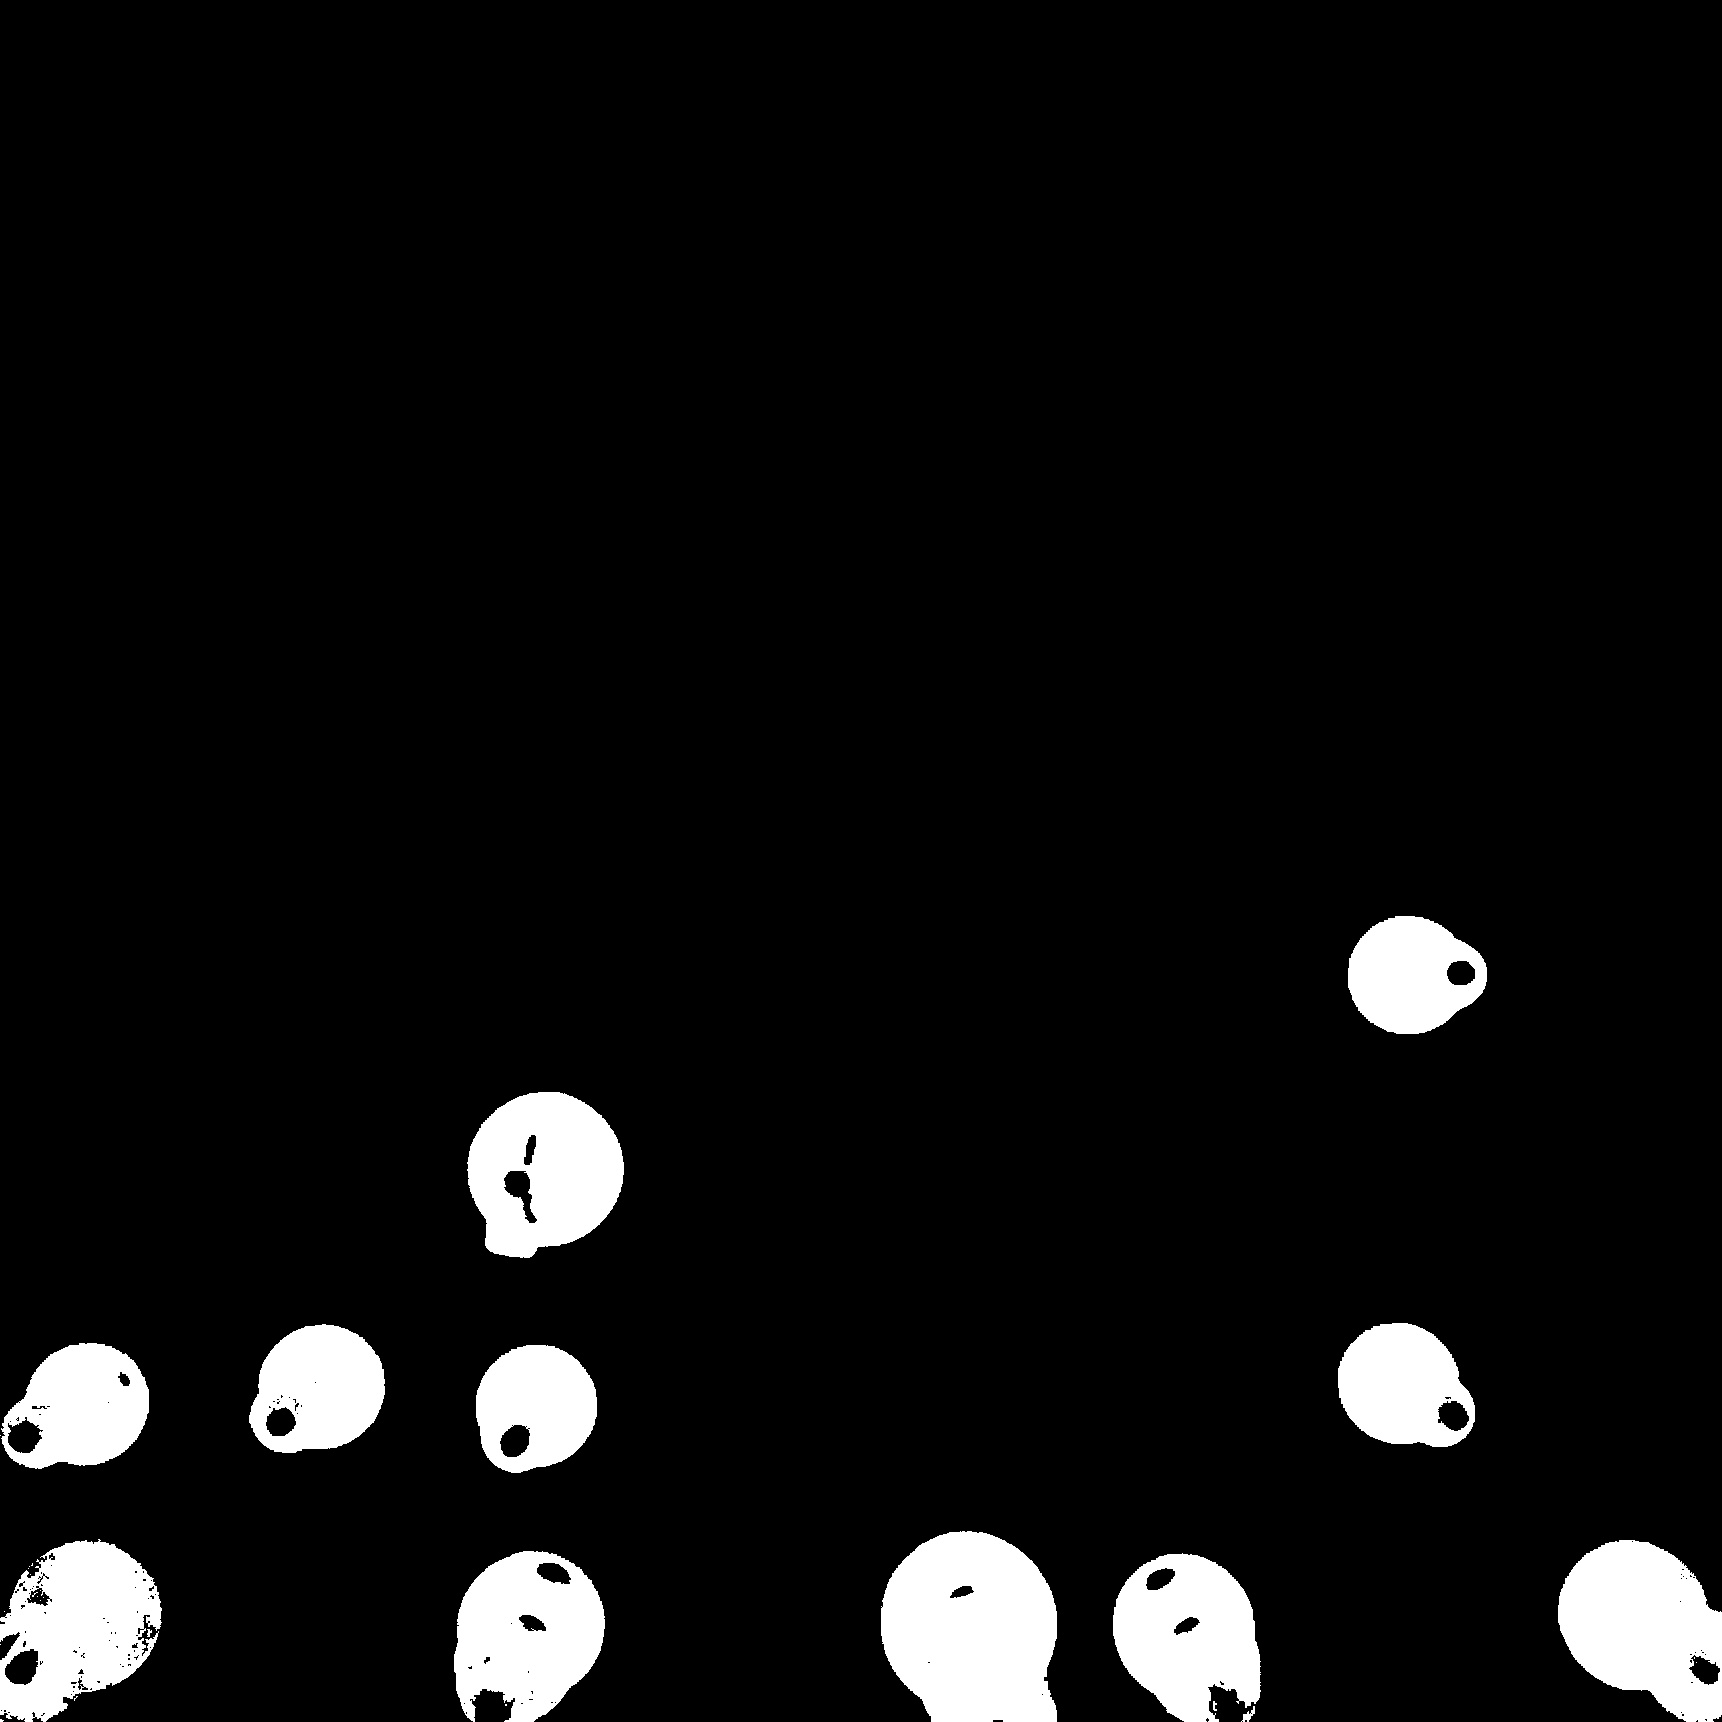
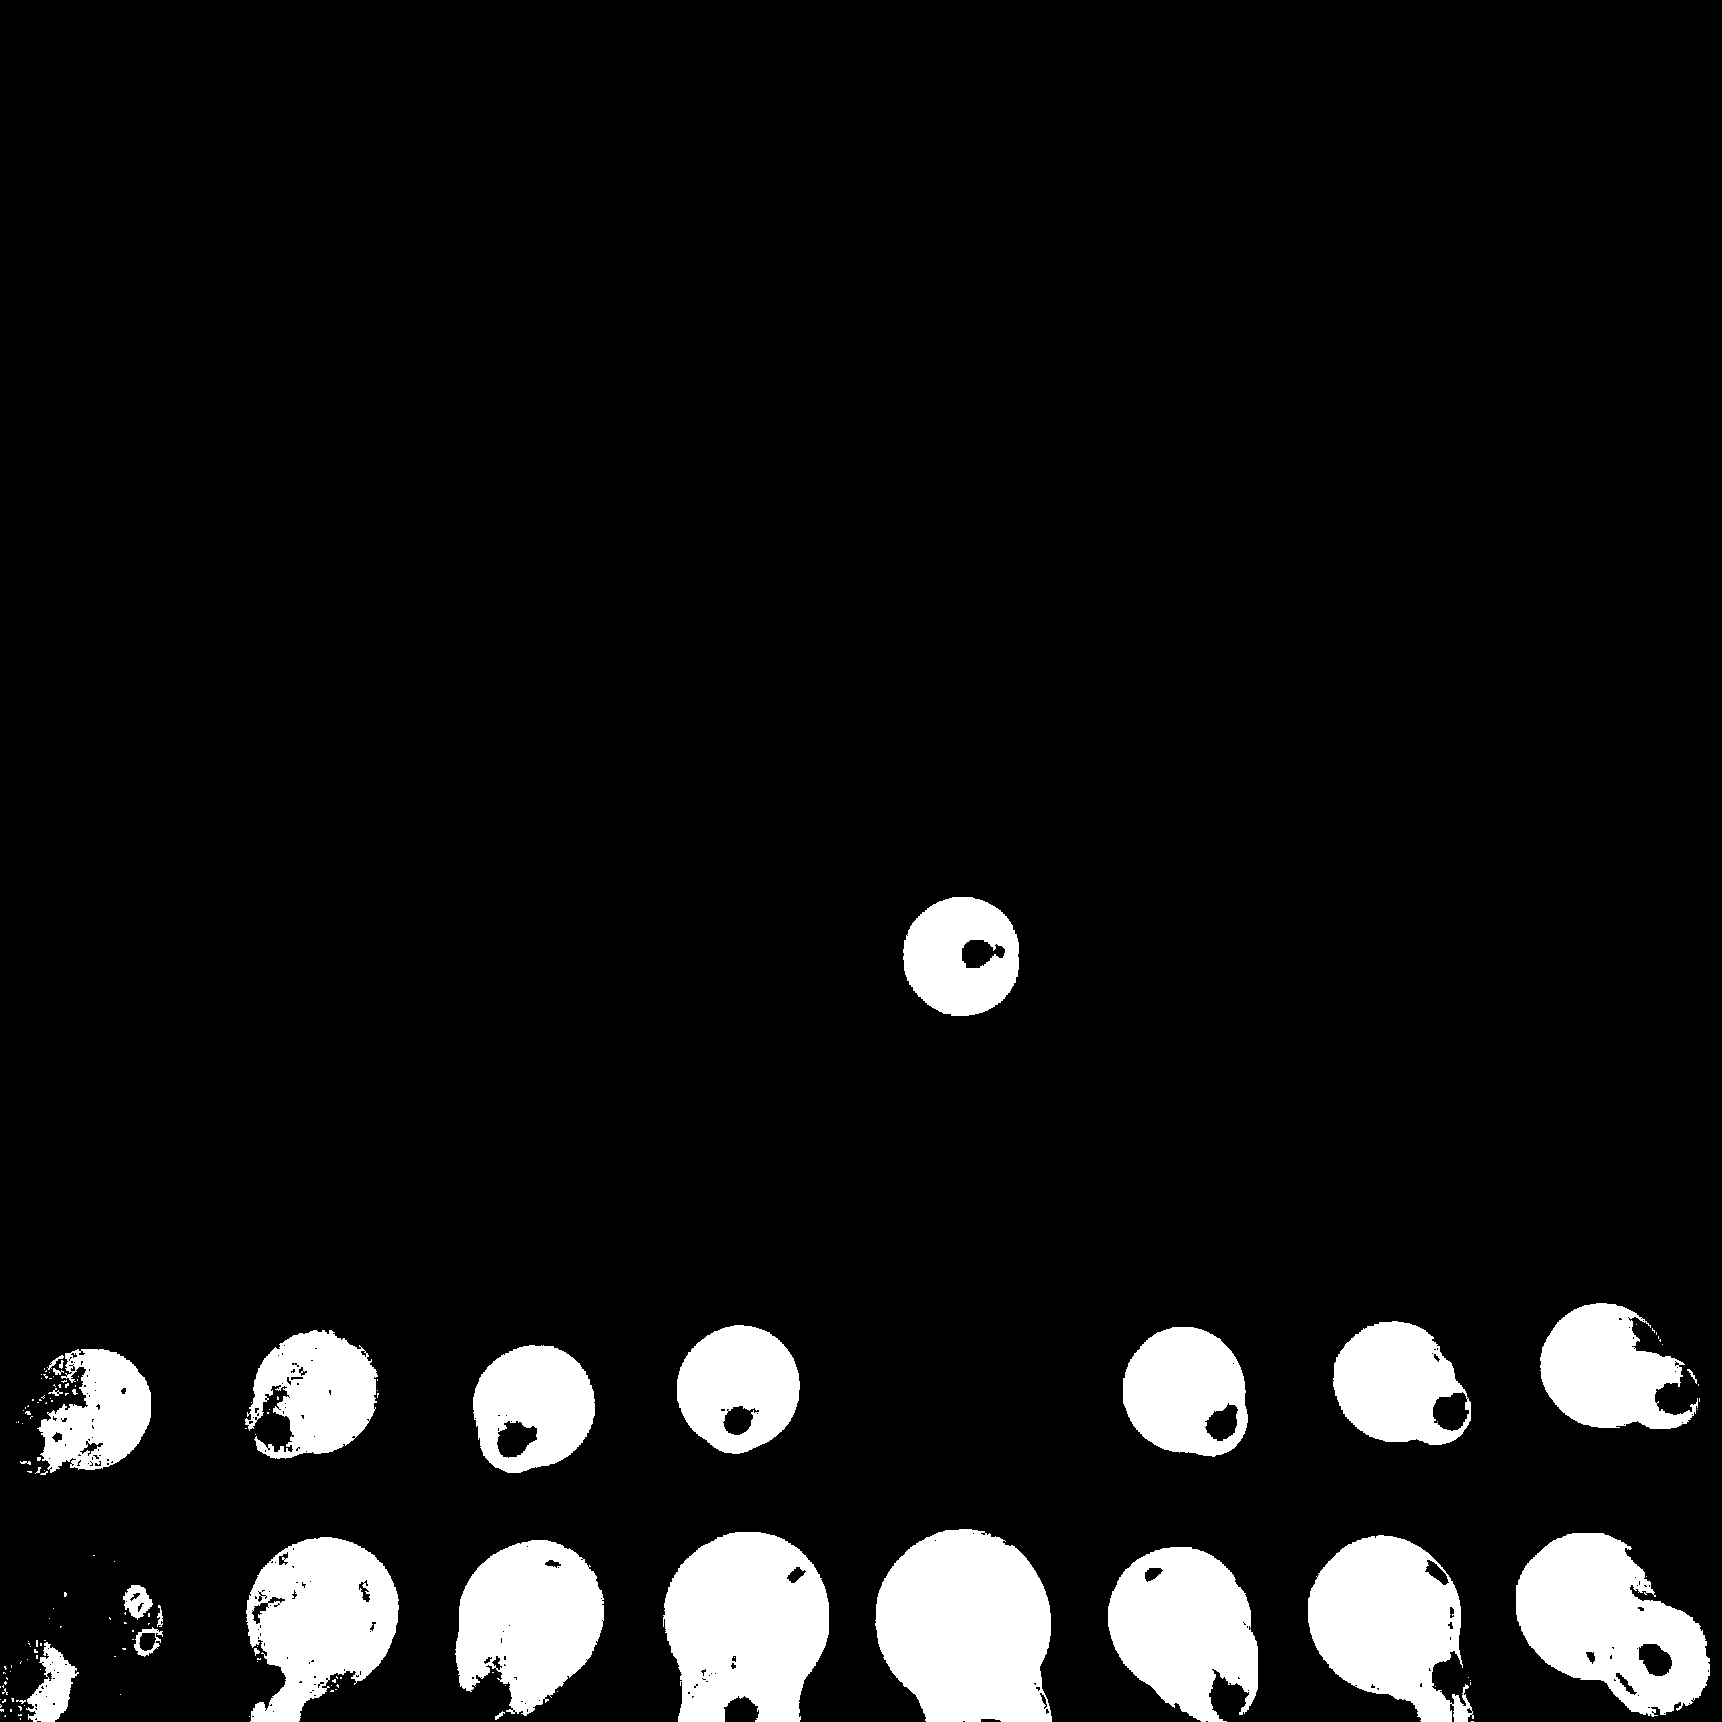
game logic

diff --git a/rpi/core.py b/rpi/core.py
@@ -64,10 +64,11 @@ def main():
         time.sleep(1)
         #Photograph board and decode state
         current_state = capture_board_state(camera)
+        """
         print("Waiting for valid move")
         print(board)
         print(current_state)
-        
+        """
         move = decode_move(board, current_state)
         if move != None:
             current_state = capture_board_state(camera)
@@ -95,14 +96,23 @@ def main():
                 while(not np.array_equal(current_color_mask(board), current_state)):
                     current_state = capture_board_state(camera)
                 print("Orange's move")
-        """
+
         else:
-            time.sleep(1)
+            time.sleep(2)
             #check to see if user wants to have different state displayed on monitor
-            displayed = CheckNew(spi)
+#            displayed= CheckNew(spi)
+            displayed, reset_game, difficulty = CheckNew(spi)
+
+            print("current " + str(current))
+            print("displayed " + str(displayed))
+            print("difficulty " + str(difficulty))
+            print("reset game " + str(reset_game))
+            
             while(displayed > current):
+                time.sleep(3)
                 print(displayed)
-                displayed = CheckNew(spi)
+                displayed, reset_game, difficulty = CheckNew(spi)
+ #               displayed = CheckNew(spi)
             if(displayed != prevdisplayed):
                 #send new board state
                 print("Current board state")
@@ -110,13 +120,16 @@ def main():
                 print("displayed board state")
                 print(displayed)
                 print("sendboard")
+                #sendboard = previous_board(board, current, current)
                 sendboard = previous_board(board, current, displayed)
                 while(sendboard == None):
                     sendboard = previous_board(board, current, displayed)
+                print("board about to be updated")
                 print(sendboard)
+                #input("Send Board")
                 BoardDisplay(spi, sendboard)
                 prevdisplayed = displayed
-           """
+           
                 
                 
 

diff --git a/rpi/comms.py b/rpi/comms.py
@@ -5,22 +5,13 @@ import spidev
 import time
 import chess
 
-"""
-creating bytestream to be sent via SPI
-will be recieved into:
-struct move{
-    char pieces[64];
-    char piece_type;
-    uint8_t pickup;
-    uint8_t place;
-}
-"""
-START = 0x00;
-MOVE = 0x01;
-DONE_YET = 0x02;
-ANY_NEW = 0x03;
+
+START =         0x00;
+MOVE =          0x01;
+DONE_YET =      0x02;
+ANY_NEW =       0x03;
 BOARD_DISPLAY = 0x04;
-TAKE = 0x05;
+TAKE =          0x05;
 
 def main():
     spi = init_spi()
@@ -36,18 +27,19 @@ def main():
     while True:
         input("send START")
         Start(spi)
-        
+        """
         input("send move")
-        move = chess.Move.from_uci("e2e3")
+        move = chess.Move.from_uci("b8b7")
         Move(spi, move, chess.QUEEN)
-        
+        """
+        input("send move")
+        move = chess.Move.from_uci("b2b1")
+        Move(spi, move, chess.QUEEN)
+
         input("send take")
-        move = chess.Move.from_uci("d2d3")
-        Take(spi, move, chess.PAWN, chess.QUEEN)
-        
-        input("send move")
-        move = chess.Move.from_uci("e2e3")
+        move = chess.Move.from_uci("b1b2")
         Move(spi, move, chess.QUEEN)
+        #Take(spi, move, chess.PAWN, chess.QUEEN)
             
         
         input("send check for new values command")
@@ -98,10 +90,11 @@ def DoneYet(spi):
     return data[1]
 
 def CheckNew(spi):
-    message = [ANY_NEW, 0]
+    message = [ANY_NEW, 0, 0, 0]
     data = spi.xfer2(message)
-    return data[1]
-    
+    #expected return values: displayed, reset, difficulty
+    return data[1], data[2], data[3]
+
 def BoardDisplay(spi, board):
     #in this instance board is a numpy character array
     message = to_char(board)

diff --git a/rpi/vision.py b/rpi/vision.py
@@ -11,7 +11,7 @@ from game import *
 #manually determined
 corners = ((538, 98), (2260, 76), (2274, 1778), (594, 1820))
 
-blue_lower = (0,180,40)
+blue_lower = (0,180,65)
 #blue_upper = (20,254,180)
 blue_upper = (30,255,200)
 #blue_lower = (85,55,0)
@@ -47,7 +47,7 @@ def capture_board_state(camera):
     
     
     hsv_img = cv2.cvtColor(board,cv2.COLOR_RGB2HSV)
-    print(hsv_img[528][342])
+
     blue = cv2.inRange(hsv_img, blue_lower, blue_upper) 
     orange = cv2.inRange(hsv_img, orange_lower, orange_upper)
     cv2.imwrite('orange.jpg', orange)
